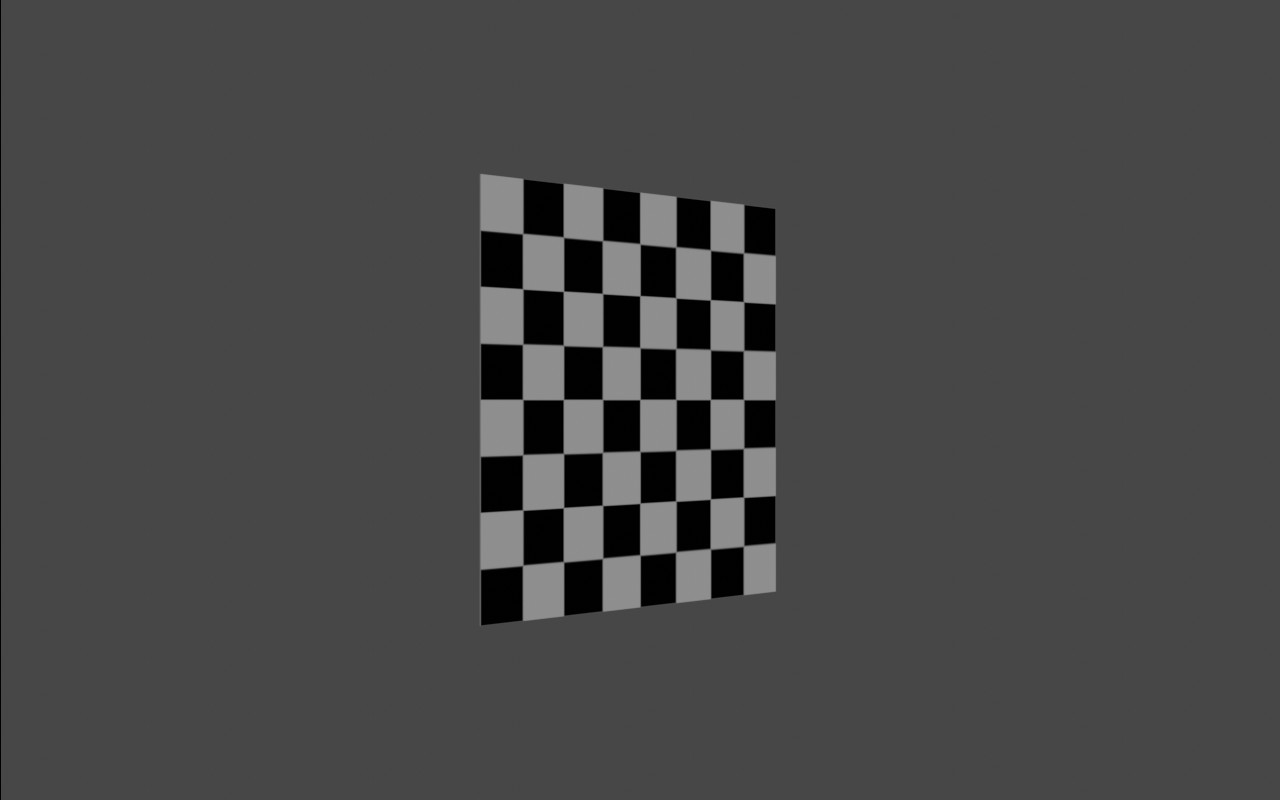
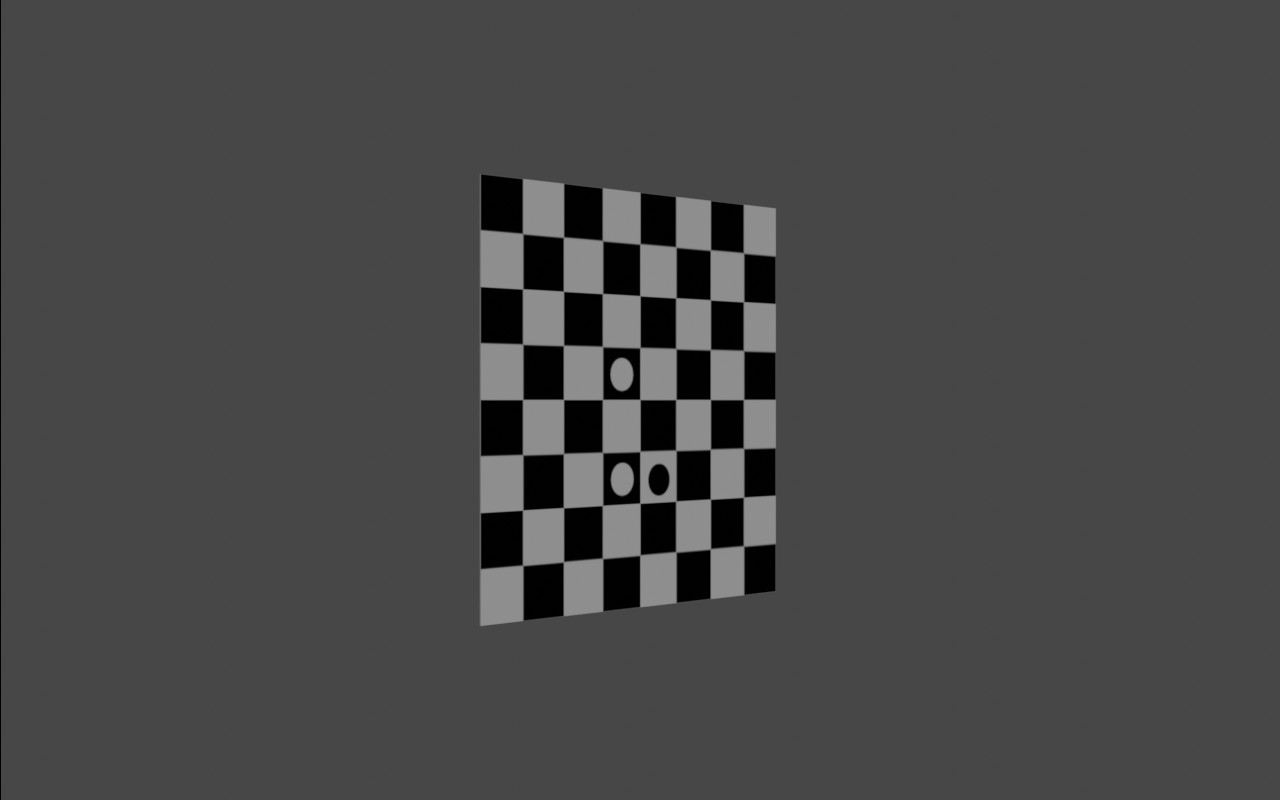
Improve calibration by detecting chessboard orientation

Changed region(s): [[0.375, 0.2188, 0.625, 0.7812]]

diff --git a/calibration/find_sample_ori.py b/calibration/find_sample_ori.py
@@ -1,6 +1,6 @@
 import cv2
 import numpy as np
-from calibration.chessboard_tools import get_chessboard_points
+from calibration.chessboard_tools import get_chessboard_points, get_blob_position, change_chess_ori
 from PIL import Image
 import matplotlib.pyplot as plt
 
@@ -12,16 +12,19 @@ def get_transfo_mat(calib_pic_file, mtx, dist, chess_dim, chess_case_len, pic=No
     :param calib_pic_file: picture file of the chessboard
     :param mtx: camera intrinsinc matrix
     :param dist: camera distorsion matrix
+    :param chess_dim: Number of cases per chess side minus one
     :param chess_case_len: real life lenth of the chess square
     :return:
     """
-    # termination criteria
     criteria = (cv2.TERM_CRITERIA_EPS + cv2.TERM_CRITERIA_MAX_ITER, 1000, 1.e-9)
 
-    objpoints, imgpoints, gray, img, objp, corners2 = get_chessboard_points(calib_pic_file, False, criteria, chess_dim,pic)
+    objpoints, imgpoints, gray, img, objp, corners2 = get_chessboard_points(calib_pic_file, False, criteria, chess_dim, pic)
     objpoints = chess_case_len * np.array(objpoints)
     obj_vect = np.reshape(objpoints, (objpoints.shape[0] * objpoints.shape[1], 3))
     img_vect = np.reshape(np.array(imgpoints), (objpoints.shape[0] * objpoints.shape[1], 2))
+    blobs = get_blob_position(img, img_vect, chess_dim)
+    obj_vect = change_chess_ori(blobs, objpoints)
+    obj_vect[:, :2] -= 3 * chess_case_len
     ret, R, T = cv2.solvePnP(obj_vect, img_vect, mtx, dist)
     return R, T
 
@@ -40,14 +43,34 @@ def plot_proj_origin(chessPic, mtx, dist, R, T, name, chess_dim, chess_case_len)
     y_grid = np.linspace(0., (chess_dim-1) * chess_case_len, chess_dim)
     for i in range(0, chess_dim):
         for j in range(0, chess_dim):
-            if name == 'top':
-                vec_3D = np.matrix([x_grid[i], y_grid[j], 0, 1]).T
-            else:
-                vec_3D = np.matrix([-y_grid[i], x_grid[j], 0, 1]).T
+            #if name == 'top':
+            vec_3D = np.matrix([x_grid[i], y_grid[j], 0, 1]).T
+            #else:
+            #    vec_3D = np.matrix([-y_grid[i], x_grid[j], 0, 1]).T
             proj = mtx * mat_pass * vec_3D
             plt.plot([float(proj[0] / proj[2])], [float(proj[1] / proj[2])], '.', color="blue")
+    ori, Xaxis = get_quiver([chess_case_len, 0., 0., 1.], mtx, mat_pass)
+    ori, Yaxis = get_quiver([0., chess_case_len, 0., 1.], mtx, mat_pass)
+    ori, Zaxis = get_quiver([0., 0., chess_case_len, 1.], mtx, mat_pass)
+
     plt.plot([float(proj[0] / proj[2])], [float(proj[1] / proj[2])], '.', color="blue", label="Projected point")
     vec_3D = np.matrix([0, 0, 0, 1]).T
     proj = mtx * mat_pass * vec_3D
     plt.plot([float(proj[0]/proj[2])], [float(proj[1]/proj[2])], '.', color="red", label='Axis origin')
+    plt.quiver(ori[0], ori[1], Xaxis[0], Xaxis[1], color="red")
+    plt.quiver(ori[0], ori[1], Yaxis[0], Yaxis[1], color="green")
+    plt.quiver(ori[0], ori[1], Zaxis[0], Zaxis[1], color="blue")
+    plt.xlim((0., pic.size[0]))
+    plt.ylim((pic.size[1], 0.))
     plt.legend()
+
+
+def get_quiver(axis, mtx, mat_pass):
+    origin = np.matrix([0., 0., 0., 1.]).T
+    proj_ori = mtx * mat_pass * origin
+    proj_axis = mtx * mat_pass * np.matrix(axis).T
+    X0 = float(proj_ori[0] / proj_ori[2])
+    Y0 = float(proj_ori[1] / proj_ori[2])
+    X1 = float(proj_axis[0] / proj_axis[2])
+    Y1 = float(proj_axis[1] / proj_axis[2])
+    return [X0, Y0], [X1 - X0, Y0 - Y1]

diff --git a/calibration/chessboard_tools.py b/calibration/chessboard_tools.py
@@ -84,10 +84,68 @@ def get_chessboard_points(picDir, listPic, criteria, chess_dim, pic=None):
             imgpoints.append(corners2)
 
             # Draw and display the corners
-            img = cv2.drawChessboardCorners(img, (chess_dim, chess_dim), corners2, ret)
+            #img_corn = cv2.drawChessboardCorners(img, (chess_dim, chess_dim), corners2, ret)
             # if pic is None:
             #     cv2.imshow('img', img)
             #     cv2.waitKey(500)
             #     cv2.destroyAllWindows()
 
     return objpoints, imgpoints, gray, img, objp, corners2
+
+
+def get_blob_position(img, corners, dim):
+    """Find the grid position of the chessboard circles required to get the chessboard orientation
+
+    :param img: chessboard picture
+    :param corners: detected corner list
+    :param dim: chessboard dimension
+    """
+    point_grid = np.reshape(corners, (dim, dim, 2))
+    params = cv2.SimpleBlobDetector_Params()
+    # params.minThreshold = 10;
+    # params.maxThreshold = 200;
+    params.filterByCircularity = True
+    params.minCircularity = 0.8
+    params.filterByColor = 0
+    detector = cv2.SimpleBlobDetector_create(params)
+    blob_pos = []
+
+    for i in range(0, dim-1):
+        for j in range(0, dim-1):
+            x_min = int(min(point_grid[i, j, 0], point_grid[i,j+1,0]))
+            x_max = int(max(point_grid[i, j, 0], point_grid[i, j + 1, 0]))
+            y_min = int(min(point_grid[i, j, 1], point_grid[i+1, j, 1]))
+            y_max = int(max(point_grid[i, j, 1], point_grid[i+1, j, 1]))
+            pic_actu = img[y_min:y_max, x_min:x_max, :]
+            blob = detector.detect(pic_actu)
+            if not(blob == []):
+                blob_pos.append([j, i, pic_actu[int(blob[0].pt[1]), int(blob[0].pt[0])][0]])
+    return blob_pos
+
+
+def change_chess_ori(blobs, objpoints):
+    i = 0
+    bcor = np.reshape(blobs, (len(blobs), 3))[:, :2]
+    for blob in blobs:
+        if blob[2] < 80:
+            b_black = i
+        i +=1
+
+    tmp_points = np.copy(np.reshape(objpoints, (7, 7, 3)))
+    tmp_obj = np.reshape(objpoints, (7, 7, 3))
+
+    if np.sum(bcor[b_black] == [1, 3]) ==2:
+        for i in range(0, 7):
+            tmp_points[:, i, 0] = tmp_obj[:, i, 1]
+            tmp_points[:, i, 1] = tmp_obj[:, 6-i, 0]
+    elif np.sum(bcor[b_black] == [2, 1]) ==2:
+        for i in range(0, 7):
+            tmp_points[:, i, 0] = tmp_obj[:, 6 - i, 0]
+            tmp_points[:, i, 1] = tmp_obj[:, 6 - i, 1]
+    elif np.sum(bcor[b_black] == [4, 2]) ==2:
+        for i in range(0, 7):
+            tmp_points[i, :, 0] = tmp_obj[6 - i, :, 1]
+            tmp_points[i, :, 1] = tmp_obj[i, :, 0]
+
+    return np.reshape(tmp_points, (49, 3))
+

diff --git a/data_treat/reconstruction_3d.py b/data_treat/reconstruction_3d.py
@@ -68,7 +68,8 @@ def plot_proj_error(traj_top, traj_left, X, Y, Z, cam_top, cam_left, pic=None):
         :return:
         """
     x_top, y_top = get_proj_list(X, Y, Z, cam_top)
-    x_left, y_left = get_proj_list(-Y, X, Z, cam_left)
+    #x_left, y_left = get_proj_list(-Y, X, Z, cam_left)
+    x_left, y_left = get_proj_list(X, Y, Z, cam_left)
 
     my_dpi = 50
     figure = plt.figure(figsize=(900/my_dpi, 300/my_dpi), dpi=my_dpi)
@@ -199,7 +200,12 @@ def make_system_mat(cam_top, cam_left, pos_2d_left, pos_2d_top):
     #A[2, :] = [-cam_left.R[2, 2] * v2 + a_left[1, 2], -cam_left.R[2, 0] * v2 + a_left[1, 0],
     #           cam_left.R[2, 1] * v2 - a_left[1, 1]]
 
-    A[2, :] = [cam_left.R[2, 1] * v2 - a_left[1, 1], -cam_left.R[2, 0] * v2 + a_left[1, 0],
+    # A[2, :] = [cam_left.R[2, 1] * v2 - a_left[1, 1], -cam_left.R[2, 0] * v2 + a_left[1, 0],
+    #            cam_left.R[2, 2] * v2 - a_left[1, 2]]
+
+
+
+    A[2, :] = [cam_left.R[2, 0] * v2 - a_left[1, 0], cam_left.R[2, 1] * v2 - a_left[1, 1],
                cam_left.R[2, 2] * v2 - a_left[1, 2]]
 
     B[0, 0] = b_top[0, 0] - cam_top.T[2] * u1
@@ -258,7 +264,8 @@ def get_proj_error(var, cam_left, cam_top, pos_2d_left, pos_2d_top):
     """
     X, Y, Z = var
     pos_proj_top = get_proj_coords(X, Y, Z, cam_top)
-    pos_proj_left = get_proj_coords(-Y, X, Z, cam_left)
+    # pos_proj_left = get_proj_coords(-Y, X, Z, cam_left)
+    pos_proj_left = get_proj_coords(X, Y, Z, cam_left)
 
     if pos_proj_top.T[0, 2] == 0.:
         top_uv = pos_proj_top.T[0, :2]

diff --git a/calibration/main.py b/calibration/main.py
@@ -27,7 +27,7 @@ def calibrate_stereo(left_lens, right_lens, left_pos, right_pos, calib_folder, c
     print("Getting reference frame transformations")
     R_top, T_top = get_transfo_mat(left_pos, mtx_top, dist_top, chess_dim, chess_case_len, pic)
     R_left, T_left = get_transfo_mat(right_pos, mtx_left, dist_left, chess_dim, chess_case_len, pic)
-    T_left[0] += chess_case_len * (chess_dim -1 )
+    #T_left[0] += chess_case_len * (chess_dim -1 )
 
     # new_angle = np.linalg.norm(R_top)
     # T_top[0] += chess_case_len * 3 * np.cos(new_angle)

diff --git a/data_treat/data_pp.py b/data_treat/data_pp.py
@@ -57,7 +57,8 @@ def get_init_angle(X, Y, Z, t, cam_top, cam_left, plot=True):
     alpha = math.acos(v[1]/vnorm)*180./math.pi
 
     xt, yt = get_proj_list(X, Y, Z, cam_top)
-    xl, yl = get_proj_list(-Y, X, Z, cam_left)
+    #xl, yl = get_proj_list(-Y, X, Z, cam_left)
+    xl, yl = get_proj_list(X, Y, Z, cam_left)
 
     pos_screen_resize(xt, yt, cam_top)
     pos_screen_resize(xl, yl, cam_left)

diff --git a/TODO.md b/TODO.md
@@ -1,8 +1,4 @@
 - [ ] Mask reflective surfaces
-- [ ] Improve calibration by detecting chessboard orientation
-- [ ] Add description / instructions
-- [ ] BAtch post processing
+- [ ] Add description / instructions / Warnings
+- [ ] Batch post processing
 - [ ] Memorize last analysis
-
->[!WARNING] 
->Attention, peut être confusion width/height dans "objectExtract"
